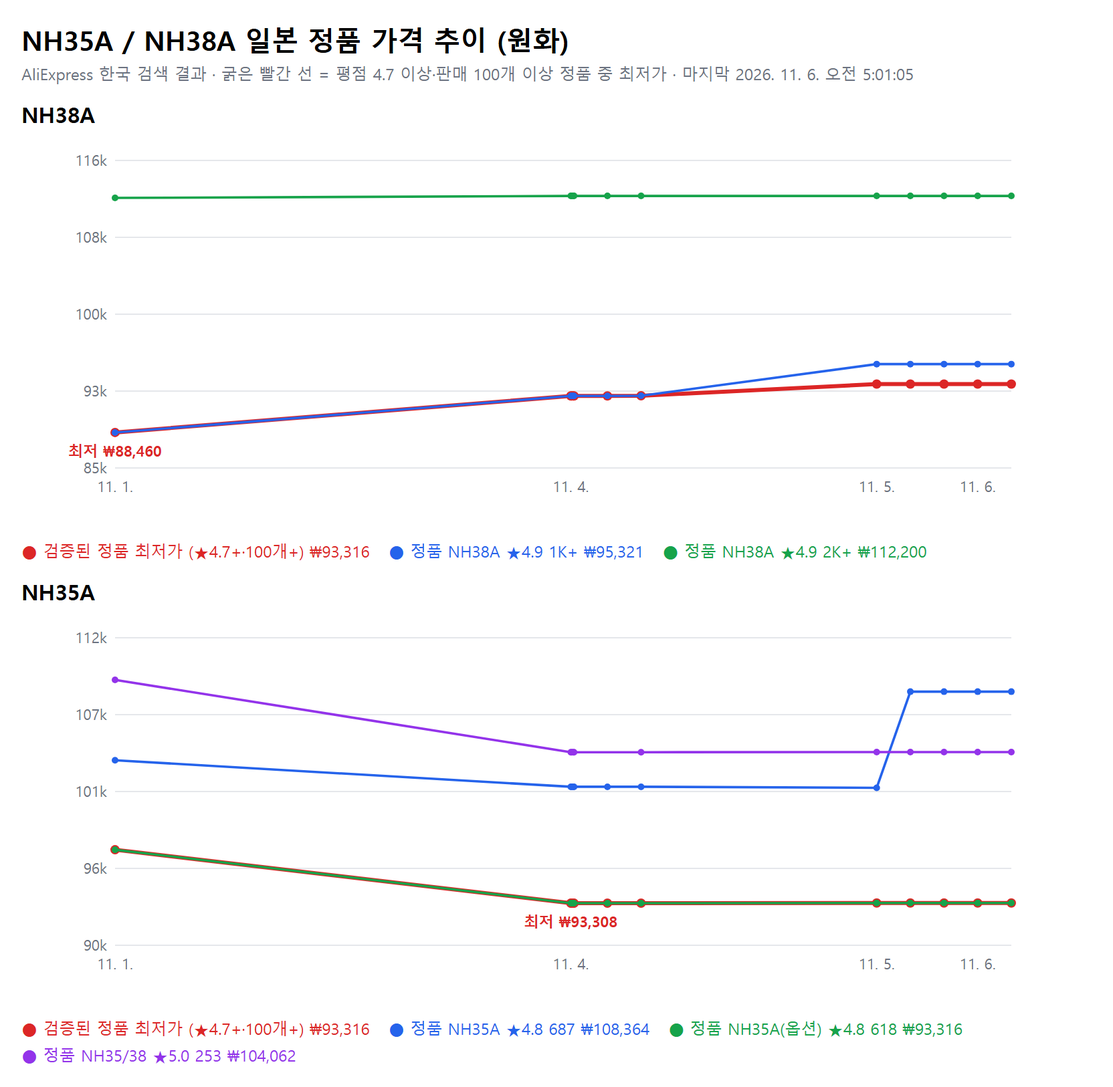
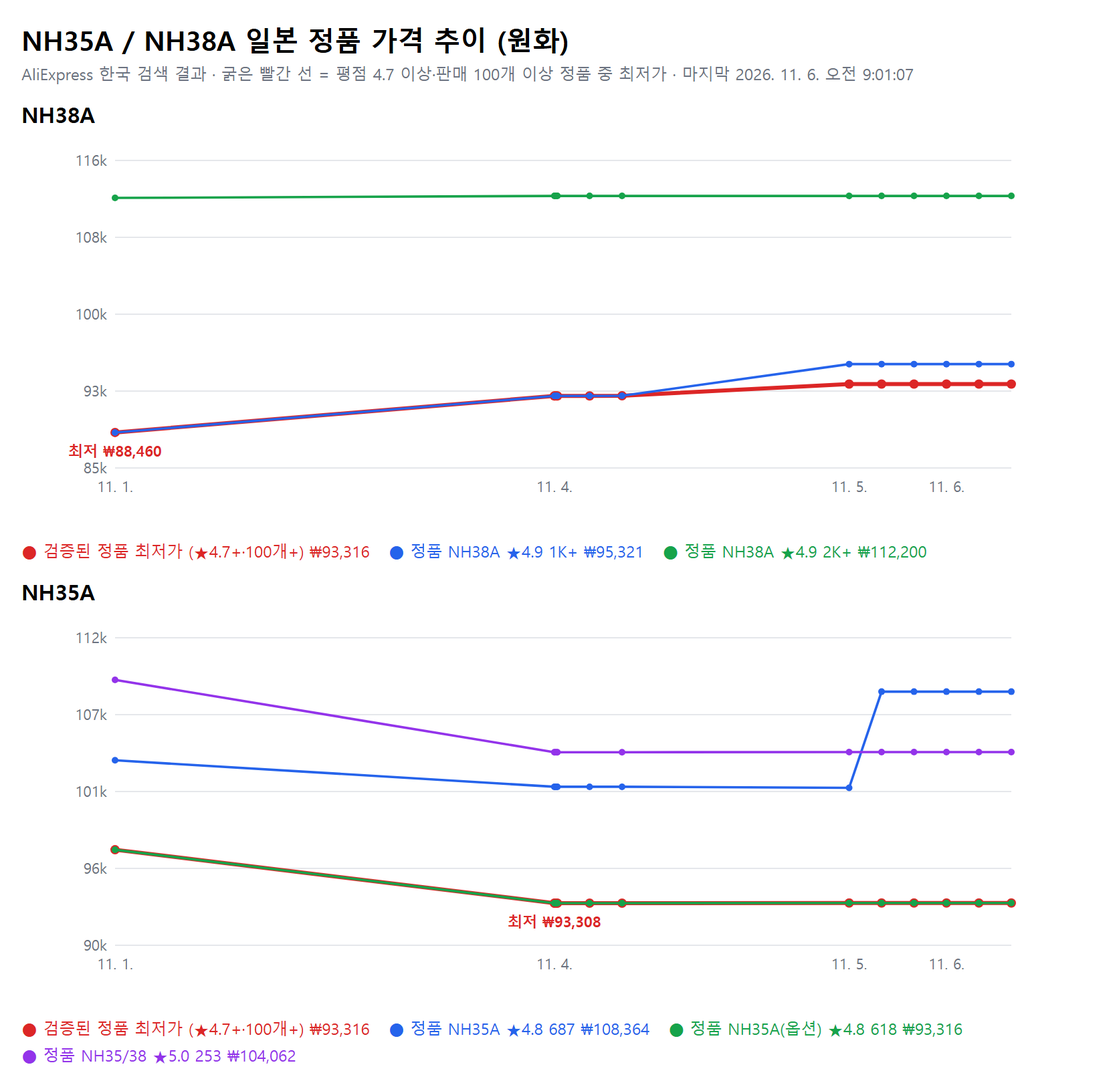
Price tracker update 2026-11-06 09:00 KST

diff --git a/watch_mod/price_tracker/chart.html b/watch_mod/price_tracker/chart.html
@@ -1,2 +1,2 @@
 <!DOCTYPE html><html><head><meta charset="utf-8"><style>body{font-family:sans-serif;margin:16px;width:800px}h1{font-size:20px;margin:0 0 4px}p{color:#6b7280;margin:0 0 8px;font-size:12px}h2{font-size:16px;margin:12px 0 4px}.lg{font-size:12px;display:flex;flex-wrap:wrap;gap:4px 14px}</style></head><body>
-  <h1>NH35A / NH38A 일본 정품 가격 추이 (원화)</h1><p>AliExpress 한국 검색 결과 · 굵은 빨간 선 = 평점 4.7 이상·판매 100개 이상 정품 중 최저가 · 마지막 2026. 11. 6. 오전 5:01:05</p><h2>NH38A</h2><svg width="760" height="300" xmlns="http://www.w3.org/2000/svg" font-family="sans-serif" font-size="11"><line x1="70" x2="740" y1="250" y2="250" stroke="#e5e7eb"/><text x="64" y="254" text-anchor="end" fill="#6b7280">85k</text><line x1="70" x2="740" y1="192.5" y2="192.5" stroke="#e5e7eb"/><text x="64" y="196.5" text-anchor="end" fill="#6b7280">93k</text><line x1="70" x2="740" y1="135" y2="135" stroke="#e5e7eb"/><text x="64" y="139" text-anchor="end" fill="#6b7280">100k</text><line x1="70" x2="740" y1="77.5" y2="77.5" stroke="#e5e7eb"/><text x="64" y="81.5" text-anchor="end" fill="#6b7280">108k</text><line x1="70" x2="740" y1="20" y2="20" stroke="#e5e7eb"/><text x="64" y="24" text-anchor="end" fill="#6b7280">116k</text><text x="70" y="268" text-anchor="middle" fill="#6b7280">11. 1.</text><text x="410.7338458159277" y="268" text-anchor="middle" fill="#6b7280">11. 4.</text><text x="639.3583186759209" y="268" text-anchor="middle" fill="#6b7280">11. 5.</text><text x="714.8398823756784" y="268" text-anchor="middle" fill="#6b7280">11. 6.</text><polyline fill="none" stroke="#dc2626" stroke-width="3" points="70,223.46153846153845 410.7338458159277,196.1480137385782 411.2804773280487,196.1480137385782 412.4793985309506,196.1480137385782 413.0870693417798,196.1480137385782 438.0759047708341,196.1480137385782 463.22939866590417,195.9989631261746 639.3583186759209,187.27204976994364 664.5210291818593,187.27204976994364 689.6785486828896,187.27204976994364 714.8398823756784,187.27204976994364 740,187.27204976994364"/><circle cx="70" cy="223.46153846153845" r="3.5" fill="#dc2626"/><circle cx="410.7338458159277" cy="196.1480137385782" r="3.5" fill="#dc2626"/><circle cx="411.2804773280487" cy="196.1480137385782" r="3.5" fill="#dc2626"/><circle cx="412.4793985309506" cy="196.1480137385782" r="3.5" fill="#dc2626"/><circle cx="413.0870693417798" cy="196.1480137385782" r="3.5" fill="#dc2626"/><circle cx="438.0759047708341" cy="196.1480137385782" r="3.5" fill="#dc2626"/><circle cx="463.22939866590417" cy="195.9989631261746" r="3.5" fill="#dc2626"/><circle cx="639.3583186759209" cy="187.27204976994364" r="3.5" fill="#dc2626"/><circle cx="664.5210291818593" cy="187.27204976994364" r="3.5" fill="#dc2626"/><circle cx="689.6785486828896" cy="187.27204976994364" r="3.5" fill="#dc2626"/><circle cx="714.8398823756784" cy="187.27204976994364" r="3.5" fill="#dc2626"/><circle cx="740" cy="187.27204976994364" r="3.5" fill="#dc2626"/><polyline fill="none" stroke="#2563eb" stroke-width="1.8" points="70,223.46153846153845 410.7338458159277,196.1480137385782 411.2804773280487,196.1480137385782 412.4793985309506,196.1480137385782 413.0870693417798,196.1480137385782 438.0759047708341,196.1480137385782 463.22939866590417,195.9989631261746 639.3583186759209,172.3297258764824 664.5210291818593,172.3297258764824 689.6785486828896,172.3297258764824 714.8398823756784,172.3297258764824 740,172.3297258764824"/><circle cx="70" cy="223.46153846153845" r="2.5" fill="#2563eb"/><circle cx="410.7338458159277" cy="196.1480137385782" r="2.5" fill="#2563eb"/><circle cx="411.2804773280487" cy="196.1480137385782" r="2.5" fill="#2563eb"/><circle cx="412.4793985309506" cy="196.1480137385782" r="2.5" fill="#2563eb"/><circle cx="413.0870693417798" cy="196.1480137385782" r="2.5" fill="#2563eb"/><circle cx="438.0759047708341" cy="196.1480137385782" r="2.5" fill="#2563eb"/><circle cx="463.22939866590417" cy="195.9989631261746" r="2.5" fill="#2563eb"/><circle cx="639.3583186759209" cy="172.3297258764824" r="2.5" fill="#2563eb"/><circle cx="664.5210291818593" cy="172.3297258764824" r="2.5" fill="#2563eb"/><circle cx="689.6785486828896" cy="172.3297258764824" r="2.5" fill="#2563eb"/><circle cx="714.8398823756784" cy="172.3297258764824" r="2.5" fill="#2563eb"/><circle cx="740" cy="172.3297258764824" r="2.5" fill="#2563eb"/><polyline fill="none" stroke="#16a34a" stroke-width="1.8" points="70,48.02896766249757 410.7338458159277,46.53846153846155 411.2804773280487,46.53846153846155 412.4793985309506,46.53846153846155 413.0870693417798,46.53846153846155 438.0759047708341,46.53846153846155 463.22939866590417,46.53846153846155 639.3583186759209,46.53846153846155 664.5210291818593,46.53846153846155 689.6785486828896,46.53846153846155 714.8398823756784,46.53846153846155 740,46.53846153846155"/><circle cx="70" cy="48.02896766249757" r="2.5" fill="#16a34a"/><circle cx="410.7338458159277" cy="46.53846153846155" r="2.5" fill="#16a34a"/><circle cx="411.2804773280487" cy="46.53846153846155" r="2.5" fill="#16a34a"/><circle cx="412.4793985309506" cy="46.53846153846155" r="2.5" fill="#16a34a"/><circle cx="413.0870693417798" cy="46.53846153846155" r="2.5" fill="#16a34a"/><circle cx="438.0759047708341" cy="46.53846153846155" r="2.5" fill="#16a34a"/><circle cx="463.22939866590417" cy="46.53846153846155" r="2.5" fill="#16a34a"/><circle cx="639.3583186759209" cy="46.53846153846155" r="2.5" fill="#16a34a"/><circle cx="664.5210291818593" cy="46.53846153846155" r="2.5" fill="#16a34a"/><circle cx="689.6785486828896" cy="46.53846153846155" r="2.5" fill="#16a34a"/><circle cx="714.8398823756784" cy="46.53846153846155" r="2.5" fill="#16a34a"/><circle cx="740" cy="46.53846153846155" r="2.5" fill="#16a34a"/><text x="70" y="241.46153846153845" text-anchor="middle" fill="#dc2626" font-weight="bold">최저 ₩88,460</text></svg><div class="lg"><span style="color:#dc2626">● 검증된 정품 최저가 (★4.7+·100개+) ₩93,316</span><span style="color:#2563eb">● 정품 NH38A ★4.9 1K+ ₩95,321</span><span style="color:#16a34a">● 정품 NH38A ★4.9 2K+ ₩112,200</span></div><h2>NH35A</h2><svg width="760" height="300" xmlns="http://www.w3.org/2000/svg" font-family="sans-serif" font-size="11"><line x1="70" x2="740" y1="250" y2="250" stroke="#e5e7eb"/><text x="64" y="254" text-anchor="end" fill="#6b7280">90k</text><line x1="70" x2="740" y1="192.5" y2="192.5" stroke="#e5e7eb"/><text x="64" y="196.5" text-anchor="end" fill="#6b7280">96k</text><line x1="70" x2="740" y1="135" y2="135" stroke="#e5e7eb"/><text x="64" y="139" text-anchor="end" fill="#6b7280">101k</text><line x1="70" x2="740" y1="77.5" y2="77.5" stroke="#e5e7eb"/><text x="64" y="81.5" text-anchor="end" fill="#6b7280">107k</text><line x1="70" x2="740" y1="20" y2="20" stroke="#e5e7eb"/><text x="64" y="24" text-anchor="end" fill="#6b7280">112k</text><text x="70" y="268" text-anchor="middle" fill="#6b7280">11. 1.</text><text x="410.7338458159277" y="268" text-anchor="middle" fill="#6b7280">11. 4.</text><text x="639.3583186759209" y="268" text-anchor="middle" fill="#6b7280">11. 5.</text><text x="714.8398823756784" y="268" text-anchor="middle" fill="#6b7280">11. 6.</text><polyline fill="none" stroke="#dc2626" stroke-width="3" points="70,178.5583774894939 410.7338458159277,218.4816371277179 411.2804773280487,218.4816371277179 412.4793985309506,218.4816371277179 413.0870693417798,218.4816371277179 438.0759047708341,218.4816371277179 463.22939866590417,218.4816371277179 639.3583186759209,218.39758816005846 664.5210291818593,218.39758816005846 689.6785486828896,218.39758816005846 714.8398823756784,218.39758816005846 740,218.39758816005846"/><circle cx="70" cy="178.5583774894939" r="3.5" fill="#dc2626"/><circle cx="410.7338458159277" cy="218.4816371277179" r="3.5" fill="#dc2626"/><circle cx="411.2804773280487" cy="218.4816371277179" r="3.5" fill="#dc2626"/><circle cx="412.4793985309506" cy="218.4816371277179" r="3.5" fill="#dc2626"/><circle cx="413.0870693417798" cy="218.4816371277179" r="3.5" fill="#dc2626"/><circle cx="438.0759047708341" cy="218.4816371277179" r="3.5" fill="#dc2626"/><circle cx="463.22939866590417" cy="218.4816371277179" r="3.5" fill="#dc2626"/><circle cx="639.3583186759209" cy="218.39758816005846" r="3.5" fill="#dc2626"/><circle cx="664.5210291818593" cy="218.39758816005846" r="3.5" fill="#dc2626"/><circle cx="689.6785486828896" cy="218.39758816005846" r="3.5" fill="#dc2626"/><circle cx="714.8398823756784" cy="218.39758816005846" r="3.5" fill="#dc2626"/><circle cx="740" cy="218.39758816005846" r="3.5" fill="#dc2626"/><polyline fill="none" stroke="#2563eb" stroke-width="1.8" points="70,111.63438699068153 410.7338458159277,131.459437237347 411.2804773280487,131.459437237347 412.4793985309506,131.459437237347 413.0870693417798,131.459437237347 438.0759047708341,131.459437237347 463.22939866590417,131.459437237347 639.3583186759209,132.21587794628175 664.5210291818593,60.301479992691384 689.6785486828896,60.301479992691384 714.8398823756784,60.301479992691384 740,60.301479992691384"/><circle cx="70" cy="111.63438699068153" r="2.5" fill="#2563eb"/><circle cx="410.7338458159277" cy="131.459437237347" r="2.5" fill="#2563eb"/><circle cx="411.2804773280487" cy="131.459437237347" r="2.5" fill="#2563eb"/><circle cx="412.4793985309506" cy="131.459437237347" r="2.5" fill="#2563eb"/><circle cx="413.0870693417798" cy="131.459437237347" r="2.5" fill="#2563eb"/><circle cx="438.0759047708341" cy="131.459437237347" r="2.5" fill="#2563eb"/><circle cx="463.22939866590417" cy="131.459437237347" r="2.5" fill="#2563eb"/><circle cx="639.3583186759209" cy="132.21587794628175" r="2.5" fill="#2563eb"/><circle cx="664.5210291818593" cy="60.301479992691384" r="2.5" fill="#2563eb"/><circle cx="689.6785486828896" cy="60.301479992691384" r="2.5" fill="#2563eb"/><circle cx="714.8398823756784" cy="60.301479992691384" r="2.5" fill="#2563eb"/><circle cx="740" cy="60.301479992691384" r="2.5" fill="#2563eb"/><polyline fill="none" stroke="#16a34a" stroke-width="1.8" points="70,178.5583774894939 410.7338458159277,218.4816371277179 411.2804773280487,218.4816371277179 412.4793985309506,218.4816371277179 413.0870693417798,218.4816371277179 438.0759047708341,218.4816371277179 463.22939866590417,218.4816371277179 639.3583186759209,218.39758816005846 664.5210291818593,218.39758816005846 689.6785486828896,218.39758816005846 714.8398823756784,218.39758816005846 740,218.39758816005846"/><circle cx="70" cy="178.5583774894939" r="2.5" fill="#16a34a"/><circle cx="410.7338458159277" cy="218.4816371277179" r="2.5" fill="#16a34a"/><circle cx="411.2804773280487" cy="218.4816371277179" r="2.5" fill="#16a34a"/><circle cx="412.4793985309506" cy="218.4816371277179" r="2.5" fill="#16a34a"/><circle cx="413.0870693417798" cy="218.4816371277179" r="2.5" fill="#16a34a"/><circle cx="438.0759047708341" cy="218.4816371277179" r="2.5" fill="#16a34a"/><circle cx="463.22939866590417" cy="218.4816371277179" r="2.5" fill="#16a34a"/><circle cx="639.3583186759209" cy="218.39758816005846" r="2.5" fill="#16a34a"/><circle cx="664.5210291818593" cy="218.39758816005846" r="2.5" fill="#16a34a"/><circle cx="689.6785486828896" cy="218.39758816005846" r="2.5" fill="#16a34a"/><circle cx="714.8398823756784" cy="218.39758816005846" r="2.5" fill="#16a34a"/><circle cx="740" cy="218.39758816005846" r="2.5" fill="#16a34a"/><polyline fill="none" stroke="#9333ea" stroke-width="1.8" points="70,51.518362872282104 410.7338458159277,105.59336744016079 411.2804773280487,105.59336744016079 412.4793985309506,105.59336744016079 413.0870693417798,105.59336744016079 463.22939866590417,105.59336744016079 639.3583186759209,105.49881235154395 664.5210291818593,105.49881235154395 689.6785486828896,105.49881235154395 714.8398823756784,105.49881235154395 740,105.49881235154395"/><circle cx="70" cy="51.518362872282104" r="2.5" fill="#9333ea"/><circle cx="410.7338458159277" cy="105.59336744016079" r="2.5" fill="#9333ea"/><circle cx="411.2804773280487" cy="105.59336744016079" r="2.5" fill="#9333ea"/><circle cx="412.4793985309506" cy="105.59336744016079" r="2.5" fill="#9333ea"/><circle cx="413.0870693417798" cy="105.59336744016079" r="2.5" fill="#9333ea"/><circle cx="463.22939866590417" cy="105.59336744016079" r="2.5" fill="#9333ea"/><circle cx="639.3583186759209" cy="105.49881235154395" r="2.5" fill="#9333ea"/><circle cx="664.5210291818593" cy="105.49881235154395" r="2.5" fill="#9333ea"/><circle cx="689.6785486828896" cy="105.49881235154395" r="2.5" fill="#9333ea"/><circle cx="714.8398823756784" cy="105.49881235154395" r="2.5" fill="#9333ea"/><circle cx="740" cy="105.49881235154395" r="2.5" fill="#9333ea"/><text x="410.7338458159277" y="236.4816371277179" text-anchor="middle" fill="#dc2626" font-weight="bold">최저 ₩93,308</text></svg><div class="lg"><span style="color:#dc2626">● 검증된 정품 최저가 (★4.7+·100개+) ₩93,316</span><span style="color:#2563eb">● 정품 NH35A ★4.8 687 ₩108,364</span><span style="color:#16a34a">● 정품 NH35A(옵션) ★4.8 618 ₩93,316</span><span style="color:#9333ea">● 정품 NH35/38 ★5.0 253 ₩104,062</span></div></body></html>
+  <h1>NH35A / NH38A 일본 정품 가격 추이 (원화)</h1><p>AliExpress 한국 검색 결과 · 굵은 빨간 선 = 평점 4.7 이상·판매 100개 이상 정품 중 최저가 · 마지막 2026. 11. 6. 오전 9:01:07</p><h2>NH38A</h2><svg width="760" height="300" xmlns="http://www.w3.org/2000/svg" font-family="sans-serif" font-size="11"><line x1="70" x2="740" y1="250" y2="250" stroke="#e5e7eb"/><text x="64" y="254" text-anchor="end" fill="#6b7280">85k</text><line x1="70" x2="740" y1="192.5" y2="192.5" stroke="#e5e7eb"/><text x="64" y="196.5" text-anchor="end" fill="#6b7280">93k</text><line x1="70" x2="740" y1="135" y2="135" stroke="#e5e7eb"/><text x="64" y="139" text-anchor="end" fill="#6b7280">100k</text><line x1="70" x2="740" y1="77.5" y2="77.5" stroke="#e5e7eb"/><text x="64" y="81.5" text-anchor="end" fill="#6b7280">108k</text><line x1="70" x2="740" y1="20" y2="20" stroke="#e5e7eb"/><text x="64" y="24" text-anchor="end" fill="#6b7280">116k</text><text x="70" y="268" text-anchor="middle" fill="#6b7280">11. 1.</text><text x="398.3994674070787" y="268" text-anchor="middle" fill="#6b7280">11. 4.</text><text x="618.7478596944886" y="268" text-anchor="middle" fill="#6b7280">11. 5.</text><text x="691.4970321716042" y="268" text-anchor="middle" fill="#6b7280">11. 6.</text><polyline fill="none" stroke="#dc2626" stroke-width="3" points="70,223.46153846153845 398.3994674070787,196.1480137385782 398.92631115815544,196.1480137385782 400.08183207082914,196.1480137385782 400.6675055314661,196.1480137385782 424.75175881829045,196.1480137385782 448.99471002493596,195.9989631261746 618.7478596944886,187.27204976994364 642.9996938757422,187.27204976994364 667.2465249636192,187.27204976994364 691.4970321716042,187.27204976994364 715.7463673321339,187.27204976994364 740,187.27204976994364"/><circle cx="70" cy="223.46153846153845" r="3.5" fill="#dc2626"/><circle cx="398.3994674070787" cy="196.1480137385782" r="3.5" fill="#dc2626"/><circle cx="398.92631115815544" cy="196.1480137385782" r="3.5" fill="#dc2626"/><circle cx="400.08183207082914" cy="196.1480137385782" r="3.5" fill="#dc2626"/><circle cx="400.6675055314661" cy="196.1480137385782" r="3.5" fill="#dc2626"/><circle cx="424.75175881829045" cy="196.1480137385782" r="3.5" fill="#dc2626"/><circle cx="448.99471002493596" cy="195.9989631261746" r="3.5" fill="#dc2626"/><circle cx="618.7478596944886" cy="187.27204976994364" r="3.5" fill="#dc2626"/><circle cx="642.9996938757422" cy="187.27204976994364" r="3.5" fill="#dc2626"/><circle cx="667.2465249636192" cy="187.27204976994364" r="3.5" fill="#dc2626"/><circle cx="691.4970321716042" cy="187.27204976994364" r="3.5" fill="#dc2626"/><circle cx="715.7463673321339" cy="187.27204976994364" r="3.5" fill="#dc2626"/><circle cx="740" cy="187.27204976994364" r="3.5" fill="#dc2626"/><polyline fill="none" stroke="#2563eb" stroke-width="1.8" points="70,223.46153846153845 398.3994674070787,196.1480137385782 398.92631115815544,196.1480137385782 400.08183207082914,196.1480137385782 400.6675055314661,196.1480137385782 424.75175881829045,196.1480137385782 448.99471002493596,195.9989631261746 618.7478596944886,172.3297258764824 642.9996938757422,172.3297258764824 667.2465249636192,172.3297258764824 691.4970321716042,172.3297258764824 715.7463673321339,172.3297258764824 740,172.3297258764824"/><circle cx="70" cy="223.46153846153845" r="2.5" fill="#2563eb"/><circle cx="398.3994674070787" cy="196.1480137385782" r="2.5" fill="#2563eb"/><circle cx="398.92631115815544" cy="196.1480137385782" r="2.5" fill="#2563eb"/><circle cx="400.08183207082914" cy="196.1480137385782" r="2.5" fill="#2563eb"/><circle cx="400.6675055314661" cy="196.1480137385782" r="2.5" fill="#2563eb"/><circle cx="424.75175881829045" cy="196.1480137385782" r="2.5" fill="#2563eb"/><circle cx="448.99471002493596" cy="195.9989631261746" r="2.5" fill="#2563eb"/><circle cx="618.7478596944886" cy="172.3297258764824" r="2.5" fill="#2563eb"/><circle cx="642.9996938757422" cy="172.3297258764824" r="2.5" fill="#2563eb"/><circle cx="667.2465249636192" cy="172.3297258764824" r="2.5" fill="#2563eb"/><circle cx="691.4970321716042" cy="172.3297258764824" r="2.5" fill="#2563eb"/><circle cx="715.7463673321339" cy="172.3297258764824" r="2.5" fill="#2563eb"/><circle cx="740" cy="172.3297258764824" r="2.5" fill="#2563eb"/><polyline fill="none" stroke="#16a34a" stroke-width="1.8" points="70,48.02896766249757 398.3994674070787,46.53846153846155 398.92631115815544,46.53846153846155 400.08183207082914,46.53846153846155 400.6675055314661,46.53846153846155 424.75175881829045,46.53846153846155 448.99471002493596,46.53846153846155 618.7478596944886,46.53846153846155 642.9996938757422,46.53846153846155 667.2465249636192,46.53846153846155 691.4970321716042,46.53846153846155 715.7463673321339,46.53846153846155 740,46.53846153846155"/><circle cx="70" cy="48.02896766249757" r="2.5" fill="#16a34a"/><circle cx="398.3994674070787" cy="46.53846153846155" r="2.5" fill="#16a34a"/><circle cx="398.92631115815544" cy="46.53846153846155" r="2.5" fill="#16a34a"/><circle cx="400.08183207082914" cy="46.53846153846155" r="2.5" fill="#16a34a"/><circle cx="400.6675055314661" cy="46.53846153846155" r="2.5" fill="#16a34a"/><circle cx="424.75175881829045" cy="46.53846153846155" r="2.5" fill="#16a34a"/><circle cx="448.99471002493596" cy="46.53846153846155" r="2.5" fill="#16a34a"/><circle cx="618.7478596944886" cy="46.53846153846155" r="2.5" fill="#16a34a"/><circle cx="642.9996938757422" cy="46.53846153846155" r="2.5" fill="#16a34a"/><circle cx="667.2465249636192" cy="46.53846153846155" r="2.5" fill="#16a34a"/><circle cx="691.4970321716042" cy="46.53846153846155" r="2.5" fill="#16a34a"/><circle cx="715.7463673321339" cy="46.53846153846155" r="2.5" fill="#16a34a"/><circle cx="740" cy="46.53846153846155" r="2.5" fill="#16a34a"/><text x="70" y="241.46153846153845" text-anchor="middle" fill="#dc2626" font-weight="bold">최저 ₩88,460</text></svg><div class="lg"><span style="color:#dc2626">● 검증된 정품 최저가 (★4.7+·100개+) ₩93,316</span><span style="color:#2563eb">● 정품 NH38A ★4.9 1K+ ₩95,321</span><span style="color:#16a34a">● 정품 NH38A ★4.9 2K+ ₩112,200</span></div><h2>NH35A</h2><svg width="760" height="300" xmlns="http://www.w3.org/2000/svg" font-family="sans-serif" font-size="11"><line x1="70" x2="740" y1="250" y2="250" stroke="#e5e7eb"/><text x="64" y="254" text-anchor="end" fill="#6b7280">90k</text><line x1="70" x2="740" y1="192.5" y2="192.5" stroke="#e5e7eb"/><text x="64" y="196.5" text-anchor="end" fill="#6b7280">96k</text><line x1="70" x2="740" y1="135" y2="135" stroke="#e5e7eb"/><text x="64" y="139" text-anchor="end" fill="#6b7280">101k</text><line x1="70" x2="740" y1="77.5" y2="77.5" stroke="#e5e7eb"/><text x="64" y="81.5" text-anchor="end" fill="#6b7280">107k</text><line x1="70" x2="740" y1="20" y2="20" stroke="#e5e7eb"/><text x="64" y="24" text-anchor="end" fill="#6b7280">112k</text><text x="70" y="268" text-anchor="middle" fill="#6b7280">11. 1.</text><text x="398.3994674070787" y="268" text-anchor="middle" fill="#6b7280">11. 4.</text><text x="618.7478596944886" y="268" text-anchor="middle" fill="#6b7280">11. 5.</text><text x="691.4970321716042" y="268" text-anchor="middle" fill="#6b7280">11. 6.</text><polyline fill="none" stroke="#dc2626" stroke-width="3" points="70,178.5583774894939 398.3994674070787,218.4816371277179 398.92631115815544,218.4816371277179 400.08183207082914,218.4816371277179 400.6675055314661,218.4816371277179 424.75175881829045,218.4816371277179 448.99471002493596,218.4816371277179 618.7478596944886,218.39758816005846 642.9996938757422,218.39758816005846 667.2465249636192,218.39758816005846 691.4970321716042,218.39758816005846 715.7463673321339,218.39758816005846 740,218.39758816005846"/><circle cx="70" cy="178.5583774894939" r="3.5" fill="#dc2626"/><circle cx="398.3994674070787" cy="218.4816371277179" r="3.5" fill="#dc2626"/><circle cx="398.92631115815544" cy="218.4816371277179" r="3.5" fill="#dc2626"/><circle cx="400.08183207082914" cy="218.4816371277179" r="3.5" fill="#dc2626"/><circle cx="400.6675055314661" cy="218.4816371277179" r="3.5" fill="#dc2626"/><circle cx="424.75175881829045" cy="218.4816371277179" r="3.5" fill="#dc2626"/><circle cx="448.99471002493596" cy="218.4816371277179" r="3.5" fill="#dc2626"/><circle cx="618.7478596944886" cy="218.39758816005846" r="3.5" fill="#dc2626"/><circle cx="642.9996938757422" cy="218.39758816005846" r="3.5" fill="#dc2626"/><circle cx="667.2465249636192" cy="218.39758816005846" r="3.5" fill="#dc2626"/><circle cx="691.4970321716042" cy="218.39758816005846" r="3.5" fill="#dc2626"/><circle cx="715.7463673321339" cy="218.39758816005846" r="3.5" fill="#dc2626"/><circle cx="740" cy="218.39758816005846" r="3.5" fill="#dc2626"/><polyline fill="none" stroke="#2563eb" stroke-width="1.8" points="70,111.63438699068153 398.3994674070787,131.459437237347 398.92631115815544,131.459437237347 400.08183207082914,131.459437237347 400.6675055314661,131.459437237347 424.75175881829045,131.459437237347 448.99471002493596,131.459437237347 618.7478596944886,132.21587794628175 642.9996938757422,60.301479992691384 667.2465249636192,60.301479992691384 691.4970321716042,60.301479992691384 715.7463673321339,60.301479992691384 740,60.301479992691384"/><circle cx="70" cy="111.63438699068153" r="2.5" fill="#2563eb"/><circle cx="398.3994674070787" cy="131.459437237347" r="2.5" fill="#2563eb"/><circle cx="398.92631115815544" cy="131.459437237347" r="2.5" fill="#2563eb"/><circle cx="400.08183207082914" cy="131.459437237347" r="2.5" fill="#2563eb"/><circle cx="400.6675055314661" cy="131.459437237347" r="2.5" fill="#2563eb"/><circle cx="424.75175881829045" cy="131.459437237347" r="2.5" fill="#2563eb"/><circle cx="448.99471002493596" cy="131.459437237347" r="2.5" fill="#2563eb"/><circle cx="618.7478596944886" cy="132.21587794628175" r="2.5" fill="#2563eb"/><circle cx="642.9996938757422" cy="60.301479992691384" r="2.5" fill="#2563eb"/><circle cx="667.2465249636192" cy="60.301479992691384" r="2.5" fill="#2563eb"/><circle cx="691.4970321716042" cy="60.301479992691384" r="2.5" fill="#2563eb"/><circle cx="715.7463673321339" cy="60.301479992691384" r="2.5" fill="#2563eb"/><circle cx="740" cy="60.301479992691384" r="2.5" fill="#2563eb"/><polyline fill="none" stroke="#16a34a" stroke-width="1.8" points="70,178.5583774894939 398.3994674070787,218.4816371277179 398.92631115815544,218.4816371277179 400.08183207082914,218.4816371277179 400.6675055314661,218.4816371277179 424.75175881829045,218.4816371277179 448.99471002493596,218.4816371277179 618.7478596944886,218.39758816005846 642.9996938757422,218.39758816005846 667.2465249636192,218.39758816005846 691.4970321716042,218.39758816005846 715.7463673321339,218.39758816005846 740,218.39758816005846"/><circle cx="70" cy="178.5583774894939" r="2.5" fill="#16a34a"/><circle cx="398.3994674070787" cy="218.4816371277179" r="2.5" fill="#16a34a"/><circle cx="398.92631115815544" cy="218.4816371277179" r="2.5" fill="#16a34a"/><circle cx="400.08183207082914" cy="218.4816371277179" r="2.5" fill="#16a34a"/><circle cx="400.6675055314661" cy="218.4816371277179" r="2.5" fill="#16a34a"/><circle cx="424.75175881829045" cy="218.4816371277179" r="2.5" fill="#16a34a"/><circle cx="448.99471002493596" cy="218.4816371277179" r="2.5" fill="#16a34a"/><circle cx="618.7478596944886" cy="218.39758816005846" r="2.5" fill="#16a34a"/><circle cx="642.9996938757422" cy="218.39758816005846" r="2.5" fill="#16a34a"/><circle cx="667.2465249636192" cy="218.39758816005846" r="2.5" fill="#16a34a"/><circle cx="691.4970321716042" cy="218.39758816005846" r="2.5" fill="#16a34a"/><circle cx="715.7463673321339" cy="218.39758816005846" r="2.5" fill="#16a34a"/><circle cx="740" cy="218.39758816005846" r="2.5" fill="#16a34a"/><polyline fill="none" stroke="#9333ea" stroke-width="1.8" points="70,51.518362872282104 398.3994674070787,105.59336744016079 398.92631115815544,105.59336744016079 400.08183207082914,105.59336744016079 400.6675055314661,105.59336744016079 448.99471002493596,105.59336744016079 618.7478596944886,105.49881235154395 642.9996938757422,105.49881235154395 667.2465249636192,105.49881235154395 691.4970321716042,105.49881235154395 715.7463673321339,105.49881235154395 740,105.49881235154395"/><circle cx="70" cy="51.518362872282104" r="2.5" fill="#9333ea"/><circle cx="398.3994674070787" cy="105.59336744016079" r="2.5" fill="#9333ea"/><circle cx="398.92631115815544" cy="105.59336744016079" r="2.5" fill="#9333ea"/><circle cx="400.08183207082914" cy="105.59336744016079" r="2.5" fill="#9333ea"/><circle cx="400.6675055314661" cy="105.59336744016079" r="2.5" fill="#9333ea"/><circle cx="448.99471002493596" cy="105.59336744016079" r="2.5" fill="#9333ea"/><circle cx="618.7478596944886" cy="105.49881235154395" r="2.5" fill="#9333ea"/><circle cx="642.9996938757422" cy="105.49881235154395" r="2.5" fill="#9333ea"/><circle cx="667.2465249636192" cy="105.49881235154395" r="2.5" fill="#9333ea"/><circle cx="691.4970321716042" cy="105.49881235154395" r="2.5" fill="#9333ea"/><circle cx="715.7463673321339" cy="105.49881235154395" r="2.5" fill="#9333ea"/><circle cx="740" cy="105.49881235154395" r="2.5" fill="#9333ea"/><text x="398.3994674070787" y="236.4816371277179" text-anchor="middle" fill="#dc2626" font-weight="bold">최저 ₩93,308</text></svg><div class="lg"><span style="color:#dc2626">● 검증된 정품 최저가 (★4.7+·100개+) ₩93,316</span><span style="color:#2563eb">● 정품 NH35A ★4.8 687 ₩108,364</span><span style="color:#16a34a">● 정품 NH35A(옵션) ★4.8 618 ₩93,316</span><span style="color:#9333ea">● 정품 NH35/38 ★5.0 253 ₩104,062</span></div></body></html>

diff --git a/watch_mod/price_tracker/latest.md b/watch_mod/price_tracker/latest.md
@@ -1,16 +1,16 @@
 # NH35A / NH38A 일본 정품 가격 추적
 
-마지막 확인: 2026. 11. 6. 오전 5:01:05 (기록 12회)
+마지막 확인: 2026. 11. 6. 오전 9:01:07 (기록 13회)
 
 ## NH38A
-- 검증된 정품 최저가: **₩93,316** [#1005001430226835](https://www.aliexpress.com/item/1005001430226835.html) ★4.8 · 600+판매
+- 검증된 정품 최저가: **₩93,316** [#1005001430226835](https://www.aliexpress.com/item/1005001430226835.html) ★4.8 · 641판매
 - 직전 대비: +₩0
 - 기록상 최저: ₩88,460
 - 정품 NH38A ★4.9 1K+: ₩95,321 ([링크](https://www.aliexpress.com/item/1005010806500239.html))
 - 정품 NH38A ★4.9 2K+: ₩112,200 ([링크](https://www.aliexpress.com/item/1005008240895208.html))
 
 ## NH35A
-- 검증된 정품 최저가: **₩93,316** [#1005001430226835](https://www.aliexpress.com/item/1005001430226835.html) ★4.8 · 600+판매
+- 검증된 정품 최저가: **₩93,316** [#1005001430226835](https://www.aliexpress.com/item/1005001430226835.html) ★4.8 · 641판매
 - 직전 대비: +₩0
 - 기록상 최저: ₩93,308
 - 정품 NH35A ★4.8 687: ₩108,364 ([링크](https://www.aliexpress.com/item/1005006845396357.html))
